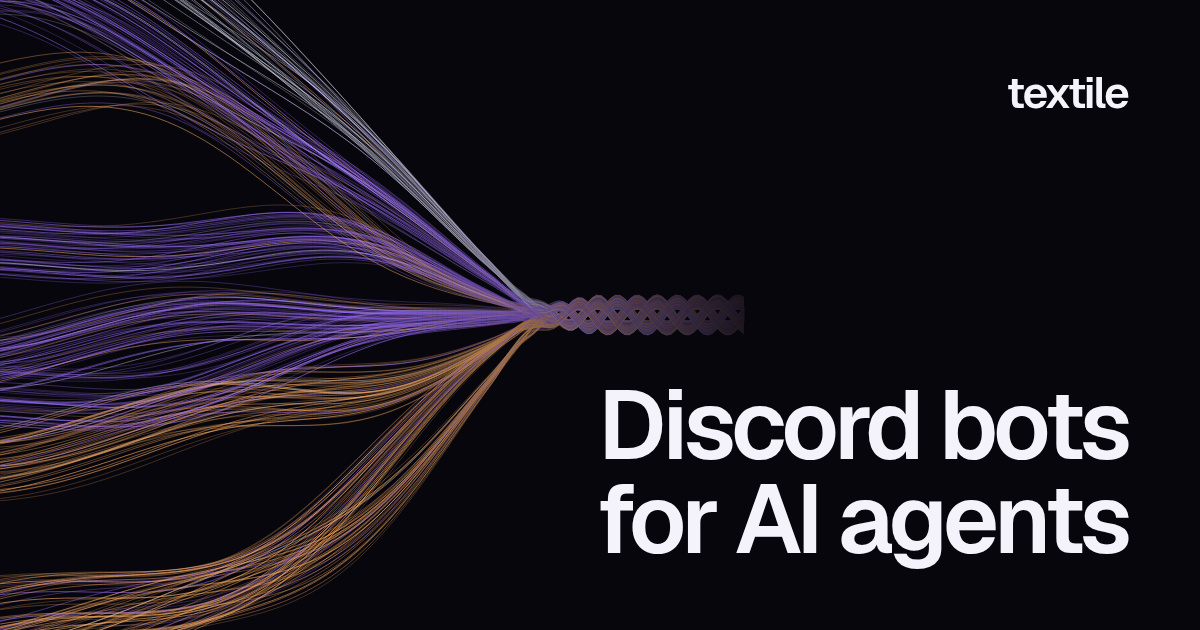
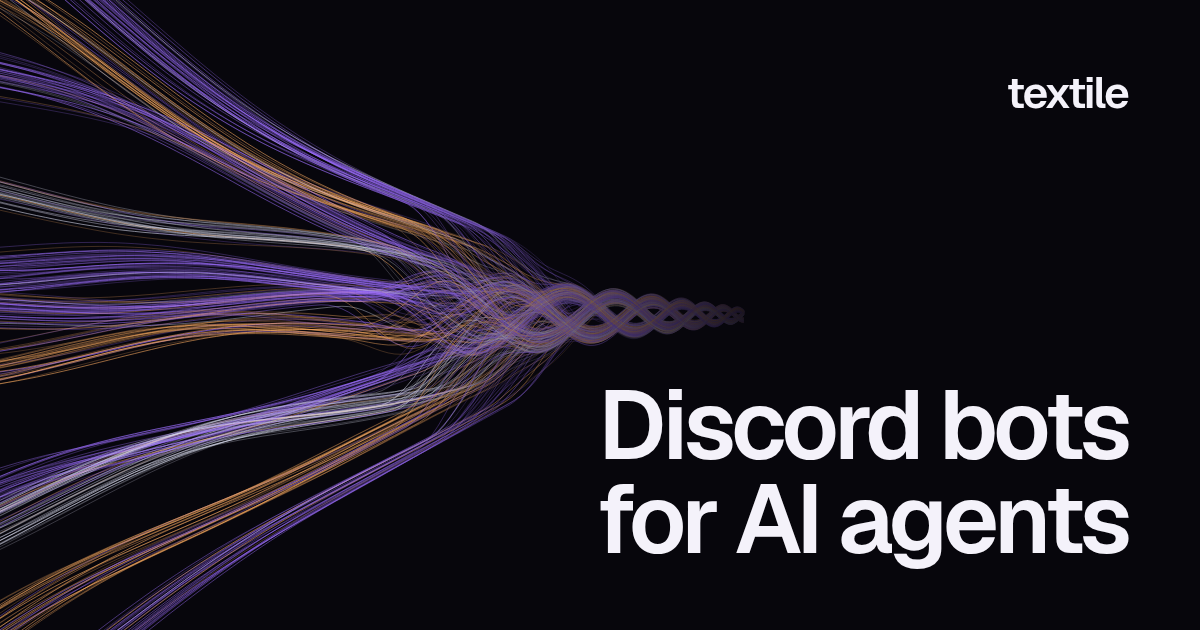
chore(web): the social card draws the hero's new funnel and braid
static/og.png is drawn from the field's geometry; regenerated with the
hero's shape (spread, cord, braid) and the crowded point spacing.

Changed region(s): [[0.0, 0.0, 0.6167, 1.0]]

diff --git a/apps/web/scripts/og.ts b/apps/web/scripts/og.ts
@@ -7,7 +7,7 @@ import { mkdtempSync, writeFileSync } from 'node:fs'
 import { tmpdir } from 'node:os'
 import { join } from 'node:path'
 import { fileURLToPath } from 'node:url'
-import { type Field, position, tint } from '../src/lib/threads/geometry.ts'
+import { along, type Field, position, tint } from '../src/lib/threads/geometry.ts'
 
 const app = fileURLToPath(new URL('..', import.meta.url))
 const fonts = join(app, 'node_modules/@fontsource-variable')
@@ -20,9 +20,9 @@ const field: Field = {
   start: [-60, HEIGHT * 0.5],
   control: [WIDTH * 0.32, HEIGHT * 0.5],
   end: [WIDTH * 0.62, HEIGHT * 0.5],
-  spread: HEIGHT * 0.62,
-  cord: 13,
-  braid: 0.78,
+  spread: HEIGHT * 0.54,
+  cord: 5,
+  braid: 0.6,
   count: 420,
   intensity: 1,
   labels: [],
@@ -31,7 +31,9 @@ const POINTS = 160
 /** A settled moment of the current, as the page's still frame shows. */
 const STILL_TIME = 12
 const threads = Array.from({ length: field.count }, (_, i) => {
-  const d = Array.from({ length: POINTS + 1 }, (_, s) => position(field, i, s / POINTS, STILL_TIME))
+  const d = Array.from({ length: POINTS + 1 }, (_, s) =>
+    position(field, i, along(s / POINTS), STILL_TIME),
+  )
     .map(([x, y], s) => `${s === 0 ? 'M' : 'L'}${x.toFixed(1)} ${y.toFixed(1)}`)
     .join('')
   const { colour, brightness } = tint(field, i)
